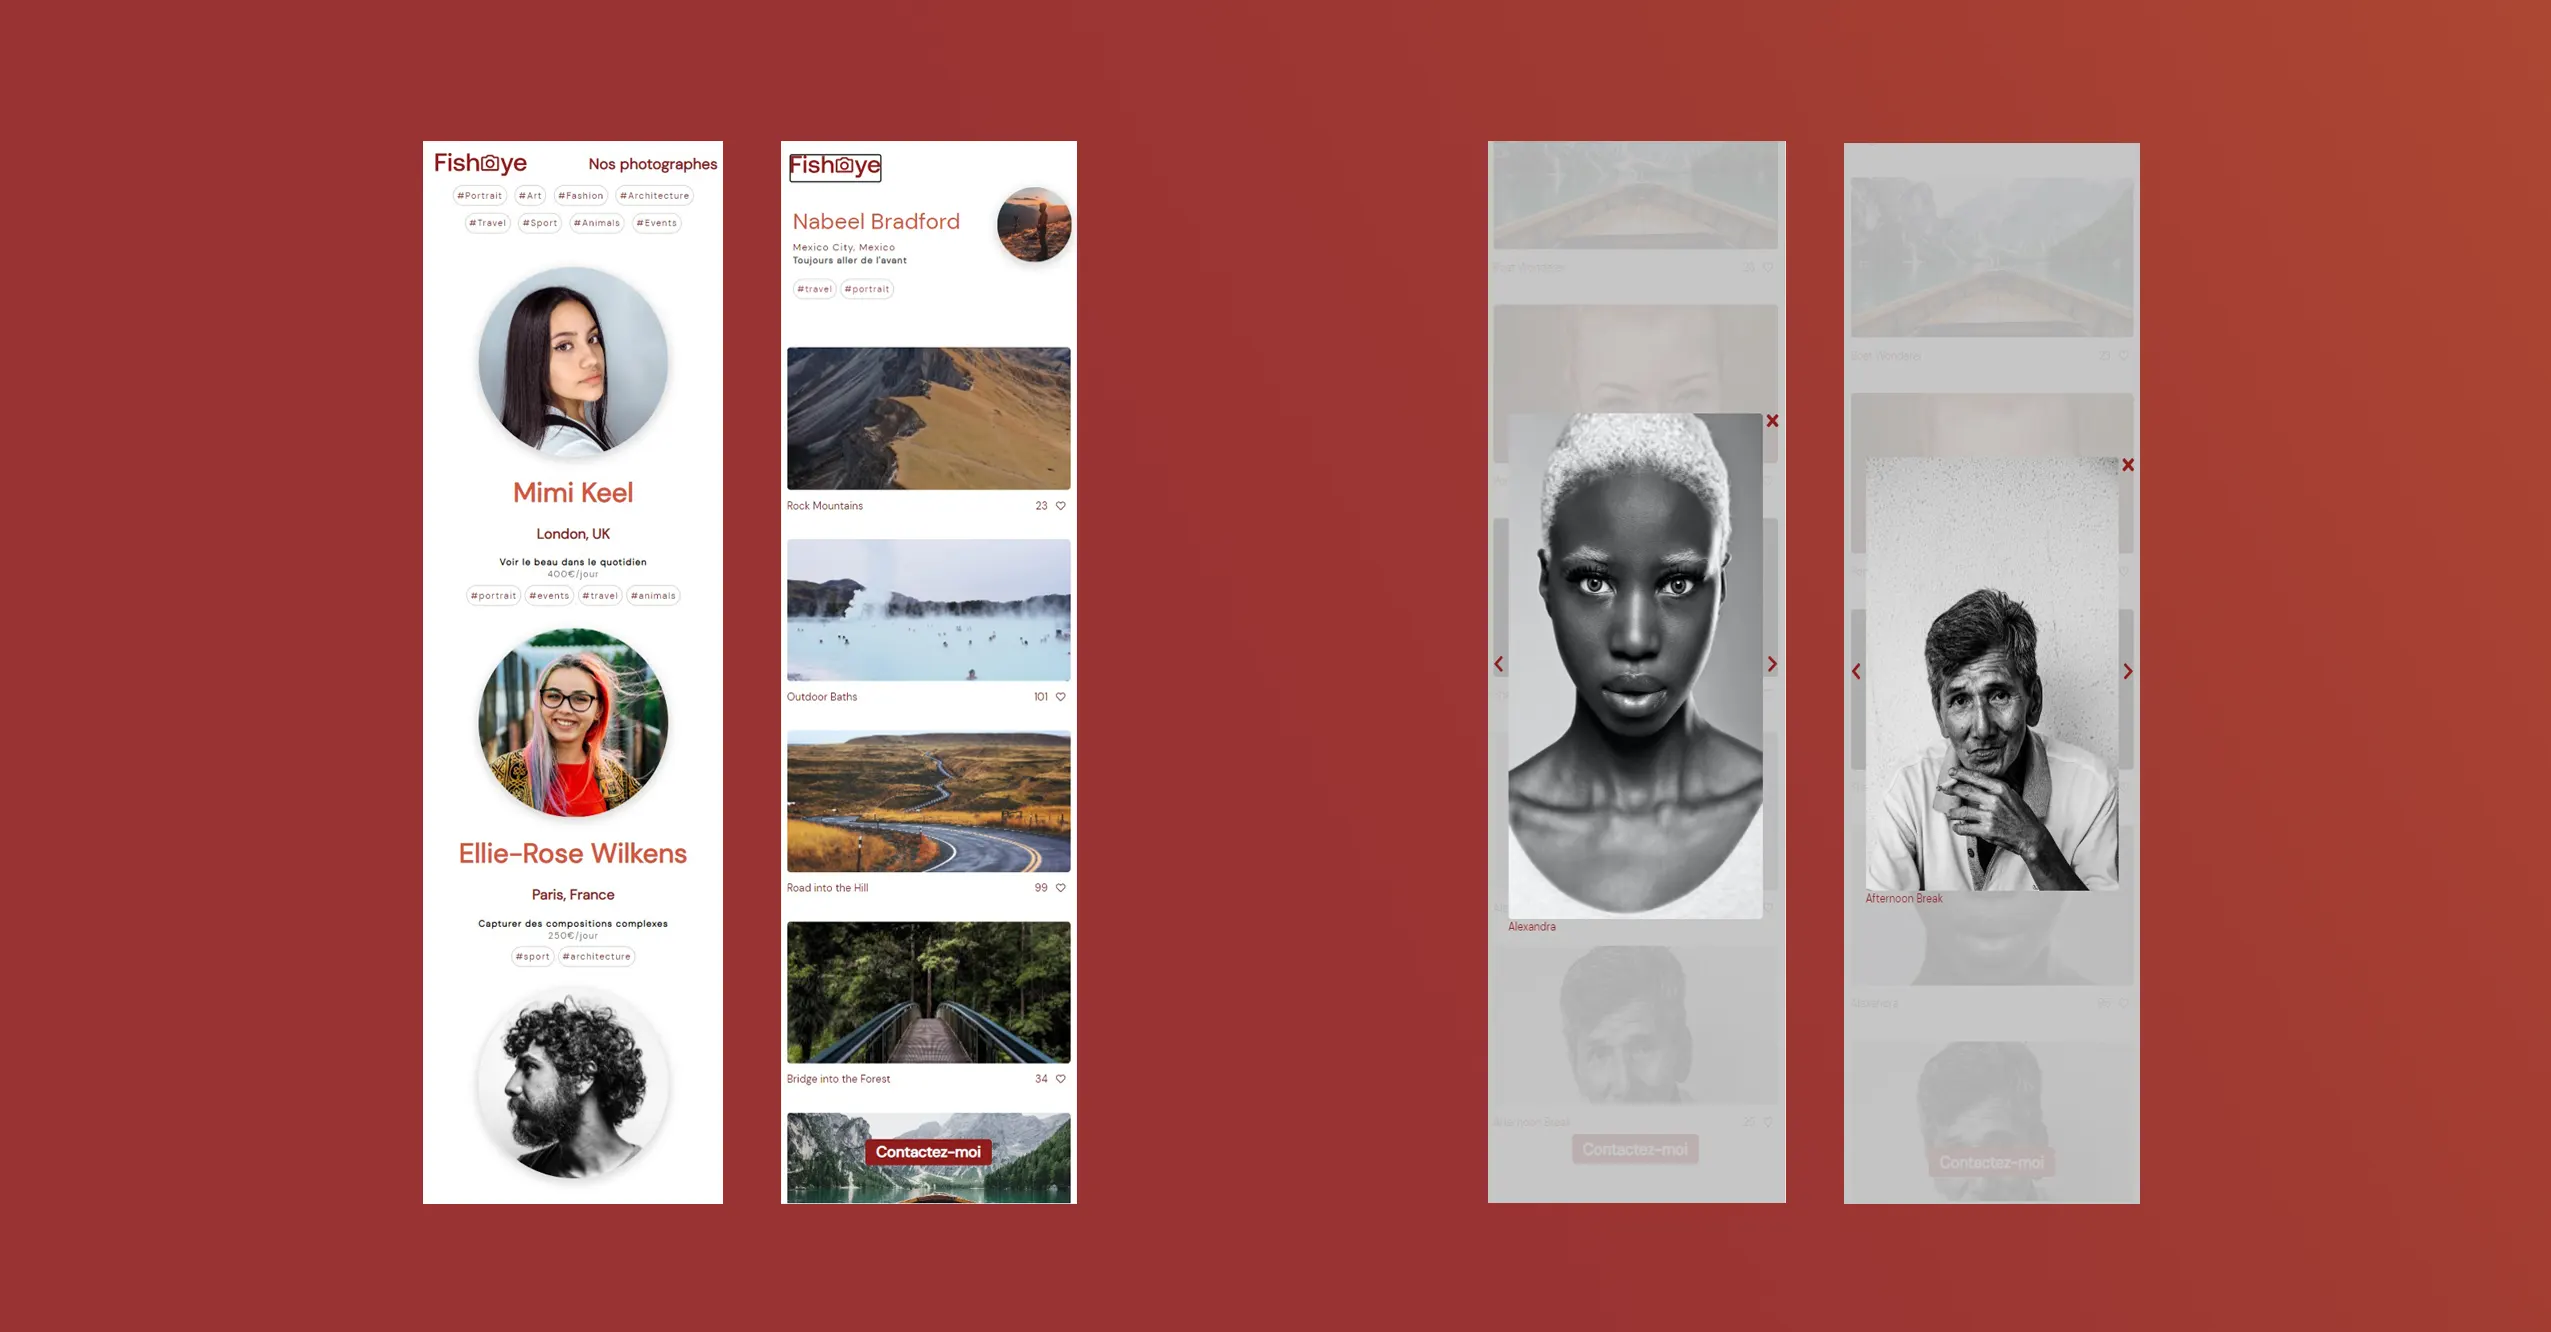
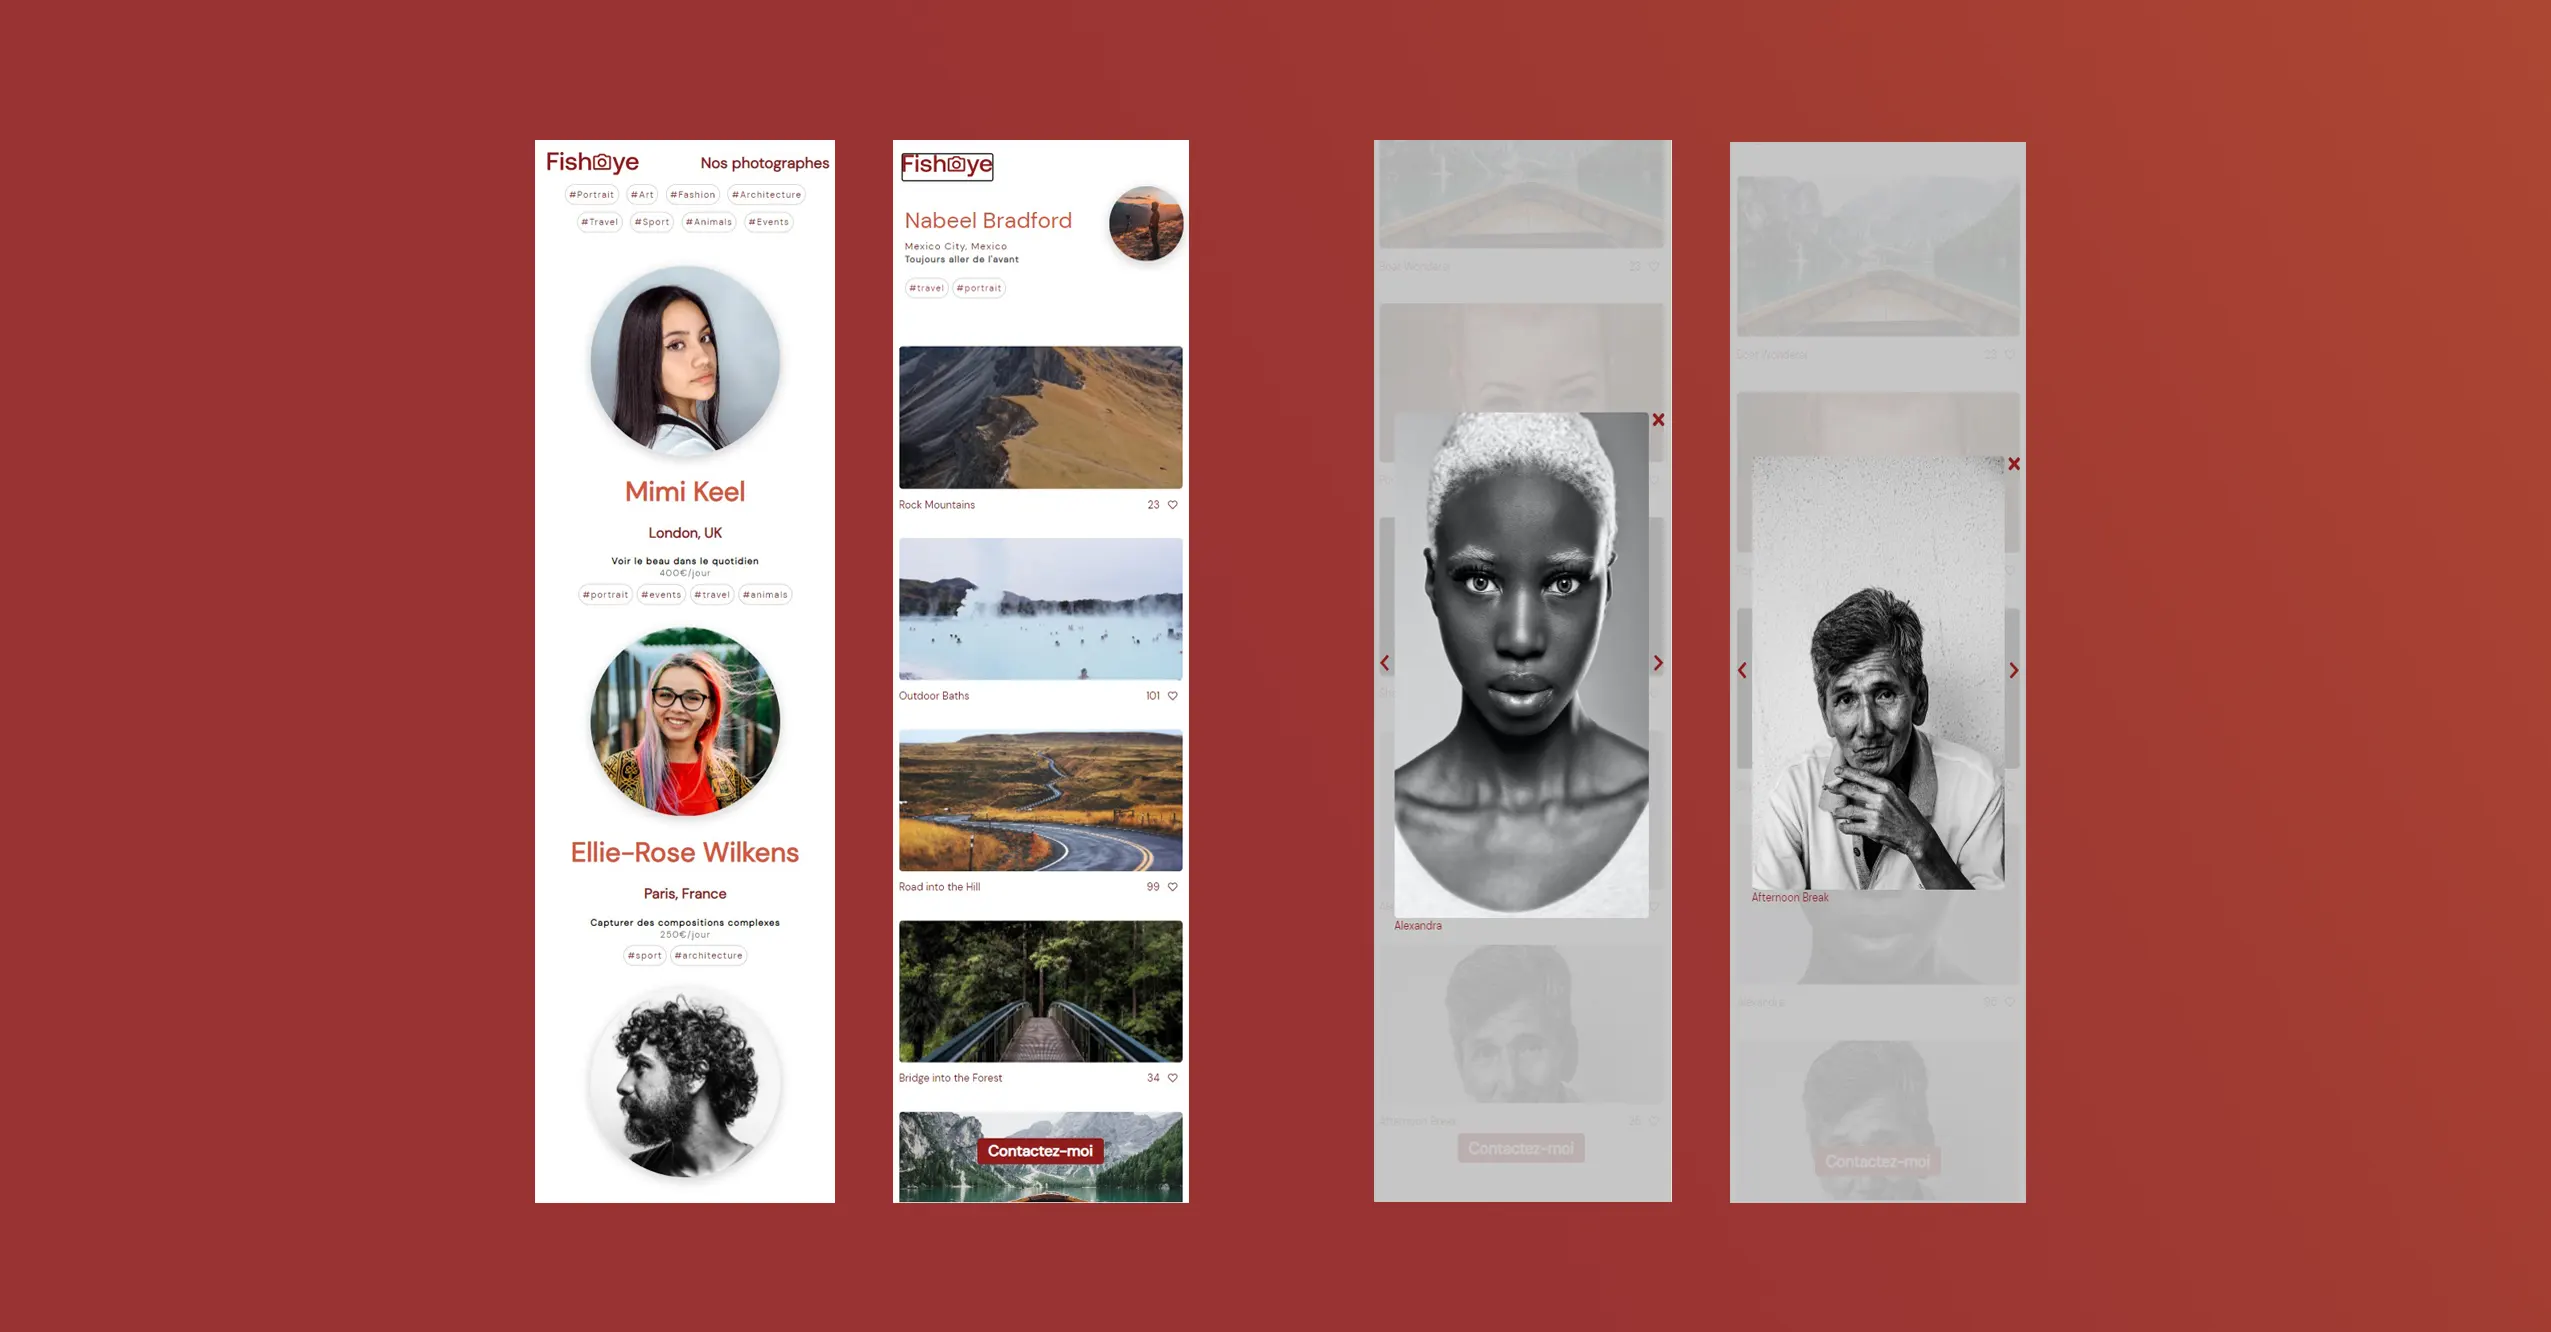
readme

diff --git a/src/components/ProjectCarousel.jsx b/src/components/ProjectCarousel.jsx
@@ -16,10 +16,10 @@ const ProjectCarousel = ( { project } ) => {
 
     <Carousel pause='hover' className={`shadow ${mode}`}>
       {project.slides.map((projSlide) => 
-      
+
         <Carousel.Item key={projSlide.alt} interval={10000}>
           <img
-            className="d-block w-100 slide rounded"
+            className="d-block w-100 slide rounded pic"
             src={projSlide.path}
             alt={projSlide.alt}
           />

diff --git a/src/sass/components/_card.scss b/src/sass/components/_card.scss
@@ -12,4 +12,3 @@
     box-shadow: 0 10px 20px rgba(0,0,0,.12), 0 4px 8px rgba(0,0,0,.06);
   }
 }
-
